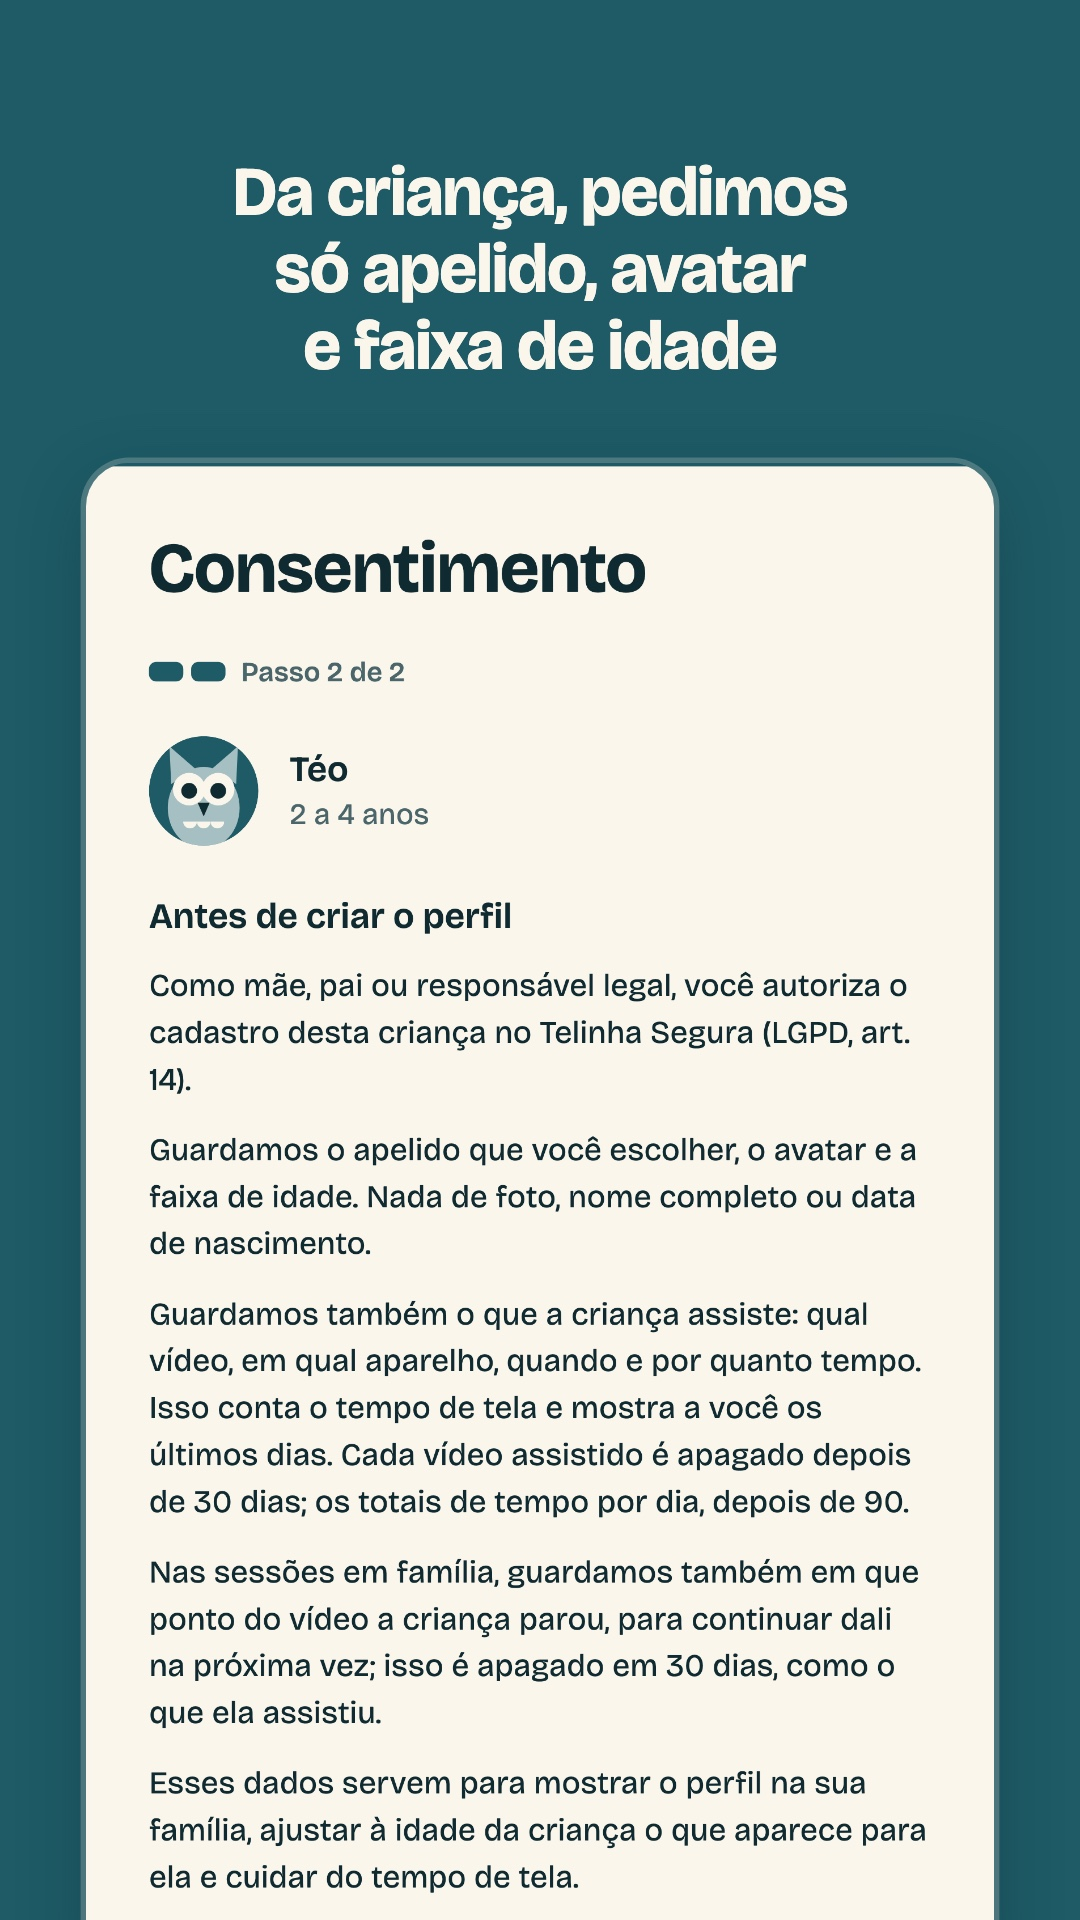
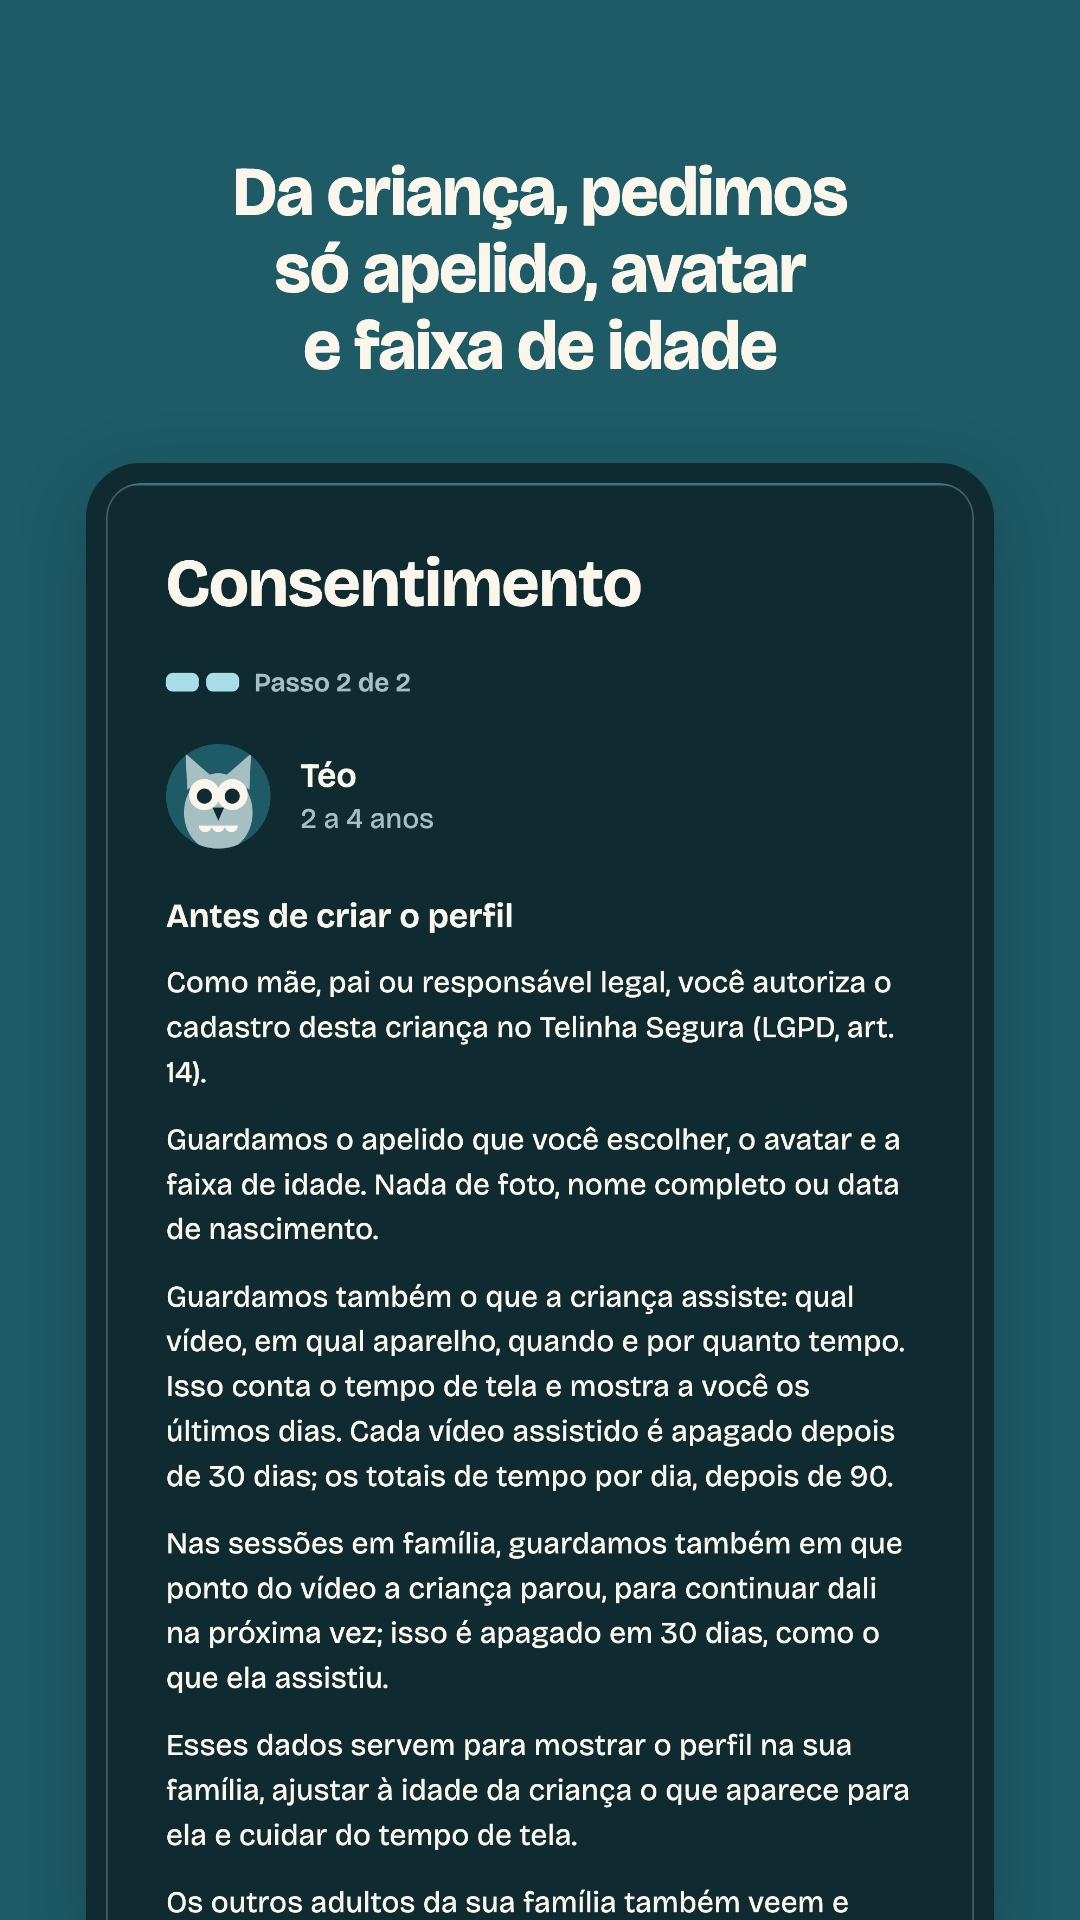
feat(stores): hold every store screenshot in one device bezel
Each capture now sits in a dark phone or tablet bezel with a faint
outline inside it, so the kid screen and the dark guardian screens both
read as a device on the petrol ground. The screens of one size start
below the tallest caption of the set, so they line up side by side.
The composer refuses a set that mixes themes and records each image's
theme and checksum. A few crops move so no line of text or button is
cut by the bottom edge.

diff --git a/app/store_screens/frame.html b/app/store_screens/frame.html
@@ -4,16 +4,20 @@
   <meta charset="utf-8">
   <title>Telinha Segura: store screenshot frame</title>
   <!--
-    One store screenshot: a caption over a real screen of the app that runs
-    off the bottom edge. compose.sh renders it with headless Chrome, sized
-    and filled by the query string:
+    One store screenshot: a caption over a real screen of the app, held in
+    a device bezel that runs off the bottom edge. compose.sh renders it with
+    headless Chrome, sized and filled by the query string:
 
-      w, h     canvas size in pixels (the store size)
-      caption  the line above the screen
-      shot     file URL of the raw capture of the screen
-      crop     optional "x0,y0,x1": the part of the capture to show, as
-               fractions of its width and height; it runs to the bottom of
-               the capture, and the default "0,0,1" shows all of it
+      w, h      canvas size in pixels (the store size)
+      device    "phone" or "tablet": the bezel drawn around the screen
+      caption   the line above the screen
+      captions  every caption of the set, one per line: the screen starts
+                below the tallest of them, so the frames of one size line
+                up side by side in a listing
+      shot      file URL of the raw capture of the screen
+      crop      optional "x0,y0,x1": the part of the capture to show, as
+                fractions of its width and height; it runs to the bottom of
+                the capture, and the default "0,0,1" shows all of it
 
     Every measure is a proportion of the canvas, so one layout serves the
     phone, the tablet and the iPad sizes. The crop only zooms into the real
@@ -31,6 +35,11 @@
     :root {
       --ink: #1E5B66;
       --cream: #FBF6EC;
+      --dark: #0F2A30;
+      /* The dark theme's outline tone: a hairline inside the bezel keeps
+         the edge of a screen whose ground is the bezel's own colour. */
+      --outline: #6A8D93;
+      --edge: color-mix(in srgb, var(--outline) 55%, transparent);
     }
 
     html,
@@ -58,9 +67,29 @@
       text-wrap: balance;
     }
 
-    .screen {
+    .measure {
+      visibility: hidden;
+    }
+
+    .device {
       position: absolute;
+      box-sizing: border-box;
+      background: var(--dark);
+    }
+
+    .screen {
+      position: relative;
       overflow: hidden;
+      height: 100%;
+    }
+
+    .screen::after {
+      content: "";
+      position: absolute;
+      inset: 0;
+      border-radius: inherit;
+      box-shadow: inset 0 0 0 var(--hairline) var(--edge);
+      pointer-events: none;
     }
 
     .screen img {
@@ -77,20 +106,22 @@
 <body>
   <div class="frame">
     <h1></h1>
-    <div class="screen"><img alt=""></div>
+    <div class="device"><div class="screen"><img alt=""></div></div>
   </div>
   <script>
     const q = new URLSearchParams(location.search);
     const w = Number(q.get("w"));
     const h = Number(q.get("h"));
     const [x0, y0, x1] = (q.get("crop") || "0,0,1").split(",").map(Number);
-    // Tablets are squarer than phones: a narrower screen and a caption set
-    // in a narrower measure keep the same balance on the wider canvas. The
-    // Play tablet set is 9:16 like the phones, so it takes the phone measures.
-    const tablet = h / w < 1.7;
+    // The iPad canvas is squarer than a phone's: a narrower screen and a
+    // caption set in a narrower measure keep the same balance on it. The
+    // Play tablet set is 9:16 like the phones, so it takes the phone
+    // measures, though its screen sits in a tablet's bezel.
+    const square = h / w < 1.7;
 
     const frame = document.querySelector(".frame");
     const title = document.querySelector("h1");
+    const device = document.querySelector(".device");
     const screen = document.querySelector(".screen");
     const shot = document.querySelector("img");
 
@@ -98,18 +129,43 @@
     document.body.style.height = frame.style.height = h + "px";
 
     title.textContent = q.get("caption");
-    const side = (tablet ? 0.12 : 0.07) * w;
+    const side = (square ? 0.12 : 0.07) * w;
+    const fontSize = (square ? 0.058 : 0.064) * w;
     title.style.left = title.style.right = side + "px";
-    title.style.fontSize = (tablet ? 0.058 : 0.064) * w + "px";
+    title.style.fontSize = fontSize + "px";
 
-    const cardW = (tablet ? 0.80 : 0.84) * w;
-    screen.style.width = cardW + "px";
-    screen.style.left = (w - cardW) / 2 + "px";
-    screen.style.borderRadius = 0.04 * w + "px";
-    // A faint cream rim keeps the edge of an ink-coloured screen (kid mode)
-    // from melting into the ground.
-    screen.style.boxShadow = `0 0 0 ${0.005 * w}px rgba(251, 246, 236, .22), ` +
-      `0 ${0.02 * w}px ${0.06 * w}px rgba(15, 42, 48, .35)`;
+    // The bezel follows a phone's proportions: a border about a thirtieth
+    // of the device's width and corners about a seventh of it. A tablet's
+    // border and corners are thinner in proportion to its wider face.
+    const deviceW = (square ? 0.80 : 0.84) * w;
+    const tablet = q.get("device") === "tablet";
+    const border = (tablet ? 0.022 : 0.033) * deviceW;
+    const radius = (tablet ? 0.06 : 0.147) * deviceW;
+    const cardW = deviceW - 2 * border;
+    device.style.width = deviceW + "px";
+    device.style.left = (w - deviceW) / 2 + "px";
+    device.style.padding = `${border}px ${border}px 0`;
+    // The device runs off the bottom edge: only its top corners show.
+    device.style.borderRadius = `${radius}px ${radius}px 0 0`;
+    device.style.boxShadow = `0 ${0.02 * w}px ${0.06 * w}px rgba(15, 42, 48, .35)`;
+    screen.style.borderRadius = `${radius - border}px ${radius - border}px 0 0`;
+    screen.style.setProperty("--hairline", Math.max(1, 0.0016 * w) + "px");
+
+    // The tallest caption of the set, set the same way as this one.
+    function tallest() {
+      const all = (q.get("captions") || q.get("caption")).split("\n")
+        .filter((c) => c.trim() !== "");
+      let most = 0;
+      for (const c of all) {
+        const probe = title.cloneNode();
+        probe.classList.add("measure");
+        probe.textContent = c;
+        frame.appendChild(probe);
+        most = Math.max(most, probe.getBoundingClientRect().height);
+        probe.remove();
+      }
+      return most;
+    }
 
     function fail() {
       frame.classList.add("blank");
@@ -124,11 +180,12 @@
       }
       const top = 0.08 * h;
       const gap = 0.04 * h;
-      // The card runs past the bottom edge, so its lower corners are cut.
-      const cut = 0.03 * h;
+      // The device runs a little past the bottom edge, so no sliver of
+      // ground shows under it.
+      const cut = 0.01 * h;
       title.style.top = top + "px";
-      const cardTop = top + title.getBoundingClientRect().height + gap;
-      const cardH = h - cardTop + cut;
+      const deviceTop = top + tallest() + gap;
+      const cardH = h - deviceTop - border + cut;
       const imgW = cardW / (x1 - x0);
       const imgH = imgW * shot.naturalHeight / shot.naturalWidth;
       // The capture must fill the card down past the edge; a crop that
@@ -136,8 +193,8 @@
       if ((1 - y0) * imgH < cardH) {
         return fail();
       }
-      screen.style.top = cardTop + "px";
-      screen.style.height = cardH + "px";
+      device.style.top = deviceTop + "px";
+      device.style.height = cardH + border + "px";
       shot.style.width = imgW + "px";
       shot.style.left = -x0 * imgW + "px";
       shot.style.top = -y0 * imgH + "px";
